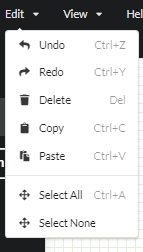
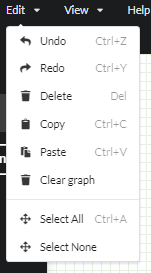
update section 3 + fix console warning

diff --git a/src/pages/sections/Section4.tsx b/src/pages/sections/Section4.tsx
@@ -13,6 +13,7 @@ class Section4 extends React.Component<any, any> {
         const s42 = require('../../img/user_manual/s4_2.png');
         const s43 = require('../../img/user_manual/s4_3.png');
         const s44 = require('../../img/user_manual/s4_4.png');
+        const s45 = require('../../img/user_manual/s4_5.png');
         return (
             <div style={{marginTop: '2em'}}>
                 <Header as="h1"> Editing </Header>
@@ -27,6 +28,8 @@ class Section4 extends React.Component<any, any> {
                             <List.Item as='a'>Undo and redo action</List.Item>
                             <List.Item as='a'>Delete components</List.Item>
                             <List.Item as='a'>Copy and paste components</List.Item>
+                            <List.Item as='a'> Clear graph </List.Item>
+                            <List.Item as='a'> Select all or select none</List.Item>
                         </List.List>
                     </List.Item>
                     <List.Item>
@@ -42,6 +45,7 @@ class Section4 extends React.Component<any, any> {
                 <p> The following section contains information on the built in functionality that allows
                     easy-to-use icons and functions to perform actions on the current graph. Each edit function
                     is discussed individually and all options to perform that function are provided. </p>
+                {/** Undo and redo actions **/}
                 <Header as='h3' color="teal"> Undo and redo actions </Header>
                 <p> The following will guide you through the process of <b> undoing and redoing actions </b> on
                     your graph.
@@ -62,6 +66,90 @@ class Section4 extends React.Component<any, any> {
                 a third option is also available. The undo function can be used by performing the keyboard
                 shortcuts 'CTRL+Z' while the redo function is done by using the 'CTRL+Y' keyboard keys.
                 The keyboard shortcuts are also visible in the figure above.
+                </p>
+                {/** Delete components **/}
+                <Header as='h3' color="teal"> Delete components </Header>
+                <p> The following will guide you through the process of <b> deleting components </b> from
+                    your graph.
+                </p>
+                <p>
+                    To delete a component, simply select a component in your graph first. This can either be one
+                    single component or multiple components (which can be selected holding down the CTRL key).
+                    When the components are all selected, click the delete icon in the toolbar on top of the screen.
+                    Hovering over each icon, will display the action it performs. The delete icon is highlighted in
+                    the figure below. Clicking this icon, will invoke the editor to remove the selected components
+                    from the graph as expected.
+                </p>
+                <Image src={s45} centered={true} style={this.imgMargin}/>
+                <p> The second option to execute the undo or redo funcion is via the top toolbar containing the
+                    dropdowns. This time click the 'Edit' dropdown as indicated below </p>
+                <Image src={s42} centered={true} style={this.imgMargin}/>
+                <p> This will bring up the following:</p>
+                <Image src={s43} centered={true} style={this.imgMargin}/>
+                <p> From the dropdown menu, you can now choose the delete function.
+                    Again the editor will perform the same actions as described above. Besides this second option
+                    a third option is also available. The delete function on selected components
+                    can be used by performing the keyboard shortcuts 'delete' or 'Del'.
+                    The keyboard shortcuts are also visible in the figure above.
+                </p>
+                {/** Copy and paste components **/}
+                <Header as='h3' color="teal"> Copy and paste components </Header>
+                <p> The following will guide you through the process of <b> copying and pasting selected components
+                </b> from and into your graph.
+                </p>
+                <p>
+                    The first option to copy or paste components is through the top toolbar containing the dropdowns.
+                    To copy or paste components, simply select the desired components in your graph first.
+                    This can either be one single component or multiple components
+                    (which can be selected holding down the CTRL key). When the components are all selected,
+                    click the 'Edit' dropdown as indicated below.
+                </p>
+                <Image src={s42} centered={true} style={this.imgMargin}/>
+                <p> This will bring up the following:</p>
+                <Image src={s43} centered={true} style={this.imgMargin}/>
+                <p> From the dropdown menu, you can now choose the copy or paste function.
+                    On click, the editor will copy or paste the selected components from or into your graph.
+                    Besides this option
+                    a second option is also available. The copy function on selected components
+                    can be used by performing the keyboard shortcuts 'CTRL+C' while the paste function
+                    can be used by 'CTRL+V'.The keyboard shortcuts are also visible in the figure above.
+                </p>
+                {/** Clear graph**/}
+                <Header as='h3' color="teal"> Clear graph </Header>
+                <p> The following will guide you through the process of <b> clearing the graph in its entirety
+                </b>.
+                </p>
+                <p>
+                    The first option to clear the graph is through the top toolbar containing the dropdowns.
+                    To clear the graph, click the 'Edit' dropdown as indicated below.
+                </p>
+                <Image src={s42} centered={true} style={this.imgMargin}/>
+                <p> This will bring up the following:</p>
+                <Image src={s43} centered={true} style={this.imgMargin}/>
+                <p> From the dropdown menu, you can now choose the clear graph.
+                    On click, the editor will clear the entire state of the current graph. Please be careful
+                    when using this function. To clear the graph using keyboard shortcuts, press
+                    'CTRL+A' to select all components followed by 'delete' to remove all of them.
+                </p>
+                {/** Select all or select none **/}
+                <Header as='h3' color="teal"> Select all or select none </Header>
+                <p> The following will guide you through the process of <b> select all or select none
+                </b> of the components in your grapnh.
+                </p>
+                <p>
+                    The first option to clear the graph is through the top toolbar containing the dropdowns.
+                    To clear the graph, click the 'Edit' dropdown as indicated below.
+                </p>
+                <Image src={s42} centered={true} style={this.imgMargin}/>
+                <p> This will bring up the following:</p>
+                <Image src={s43} centered={true} style={this.imgMargin}/>
+                <p> From the dropdown menu, you can now choose the select all or select none function.
+                    On click, the editor will select all or select none of the components residing in your graph.
+                    These function can come in handy when combined with other functionality requiring
+                    selection of components. Besides this option,
+                    a second option is also available. The select all function
+                    can be used by performing the keyboard shortcuts 'CTRL+A', no shortcuts is available for
+                    the select none function. The keyboard shortcuts are also visible in the figure above.
                 </p>
             </div>
         );

diff --git a/src/pages/sections/Section1.tsx b/src/pages/sections/Section1.tsx
@@ -48,6 +48,7 @@ class Section1 extends React.Component<any, any> {
                     Our tool also allows for collaborative editing, so SHACL experts and non-experts can easily work
                     together and assist each other. To allow intuitive, fast development of constraints and a clear
                     detection of non-conforming data, our product offers several features:
+                </p>
                     <List bulleted={true} style={{marginTop: '1em'}}>
                         <List.Item>An innovative way of visualizing data and constraints</List.Item>
                         <List.Item>Intuitive building and editing of your own constraints in a visual manner</List.Item>
@@ -59,7 +60,7 @@ class Section1 extends React.Component<any, any> {
                         </List.Item>
                         <List.Item> Save and exchange your constructed formats</List.Item>
                     </List>
-                </p>
+
             </div>
         );
     }
